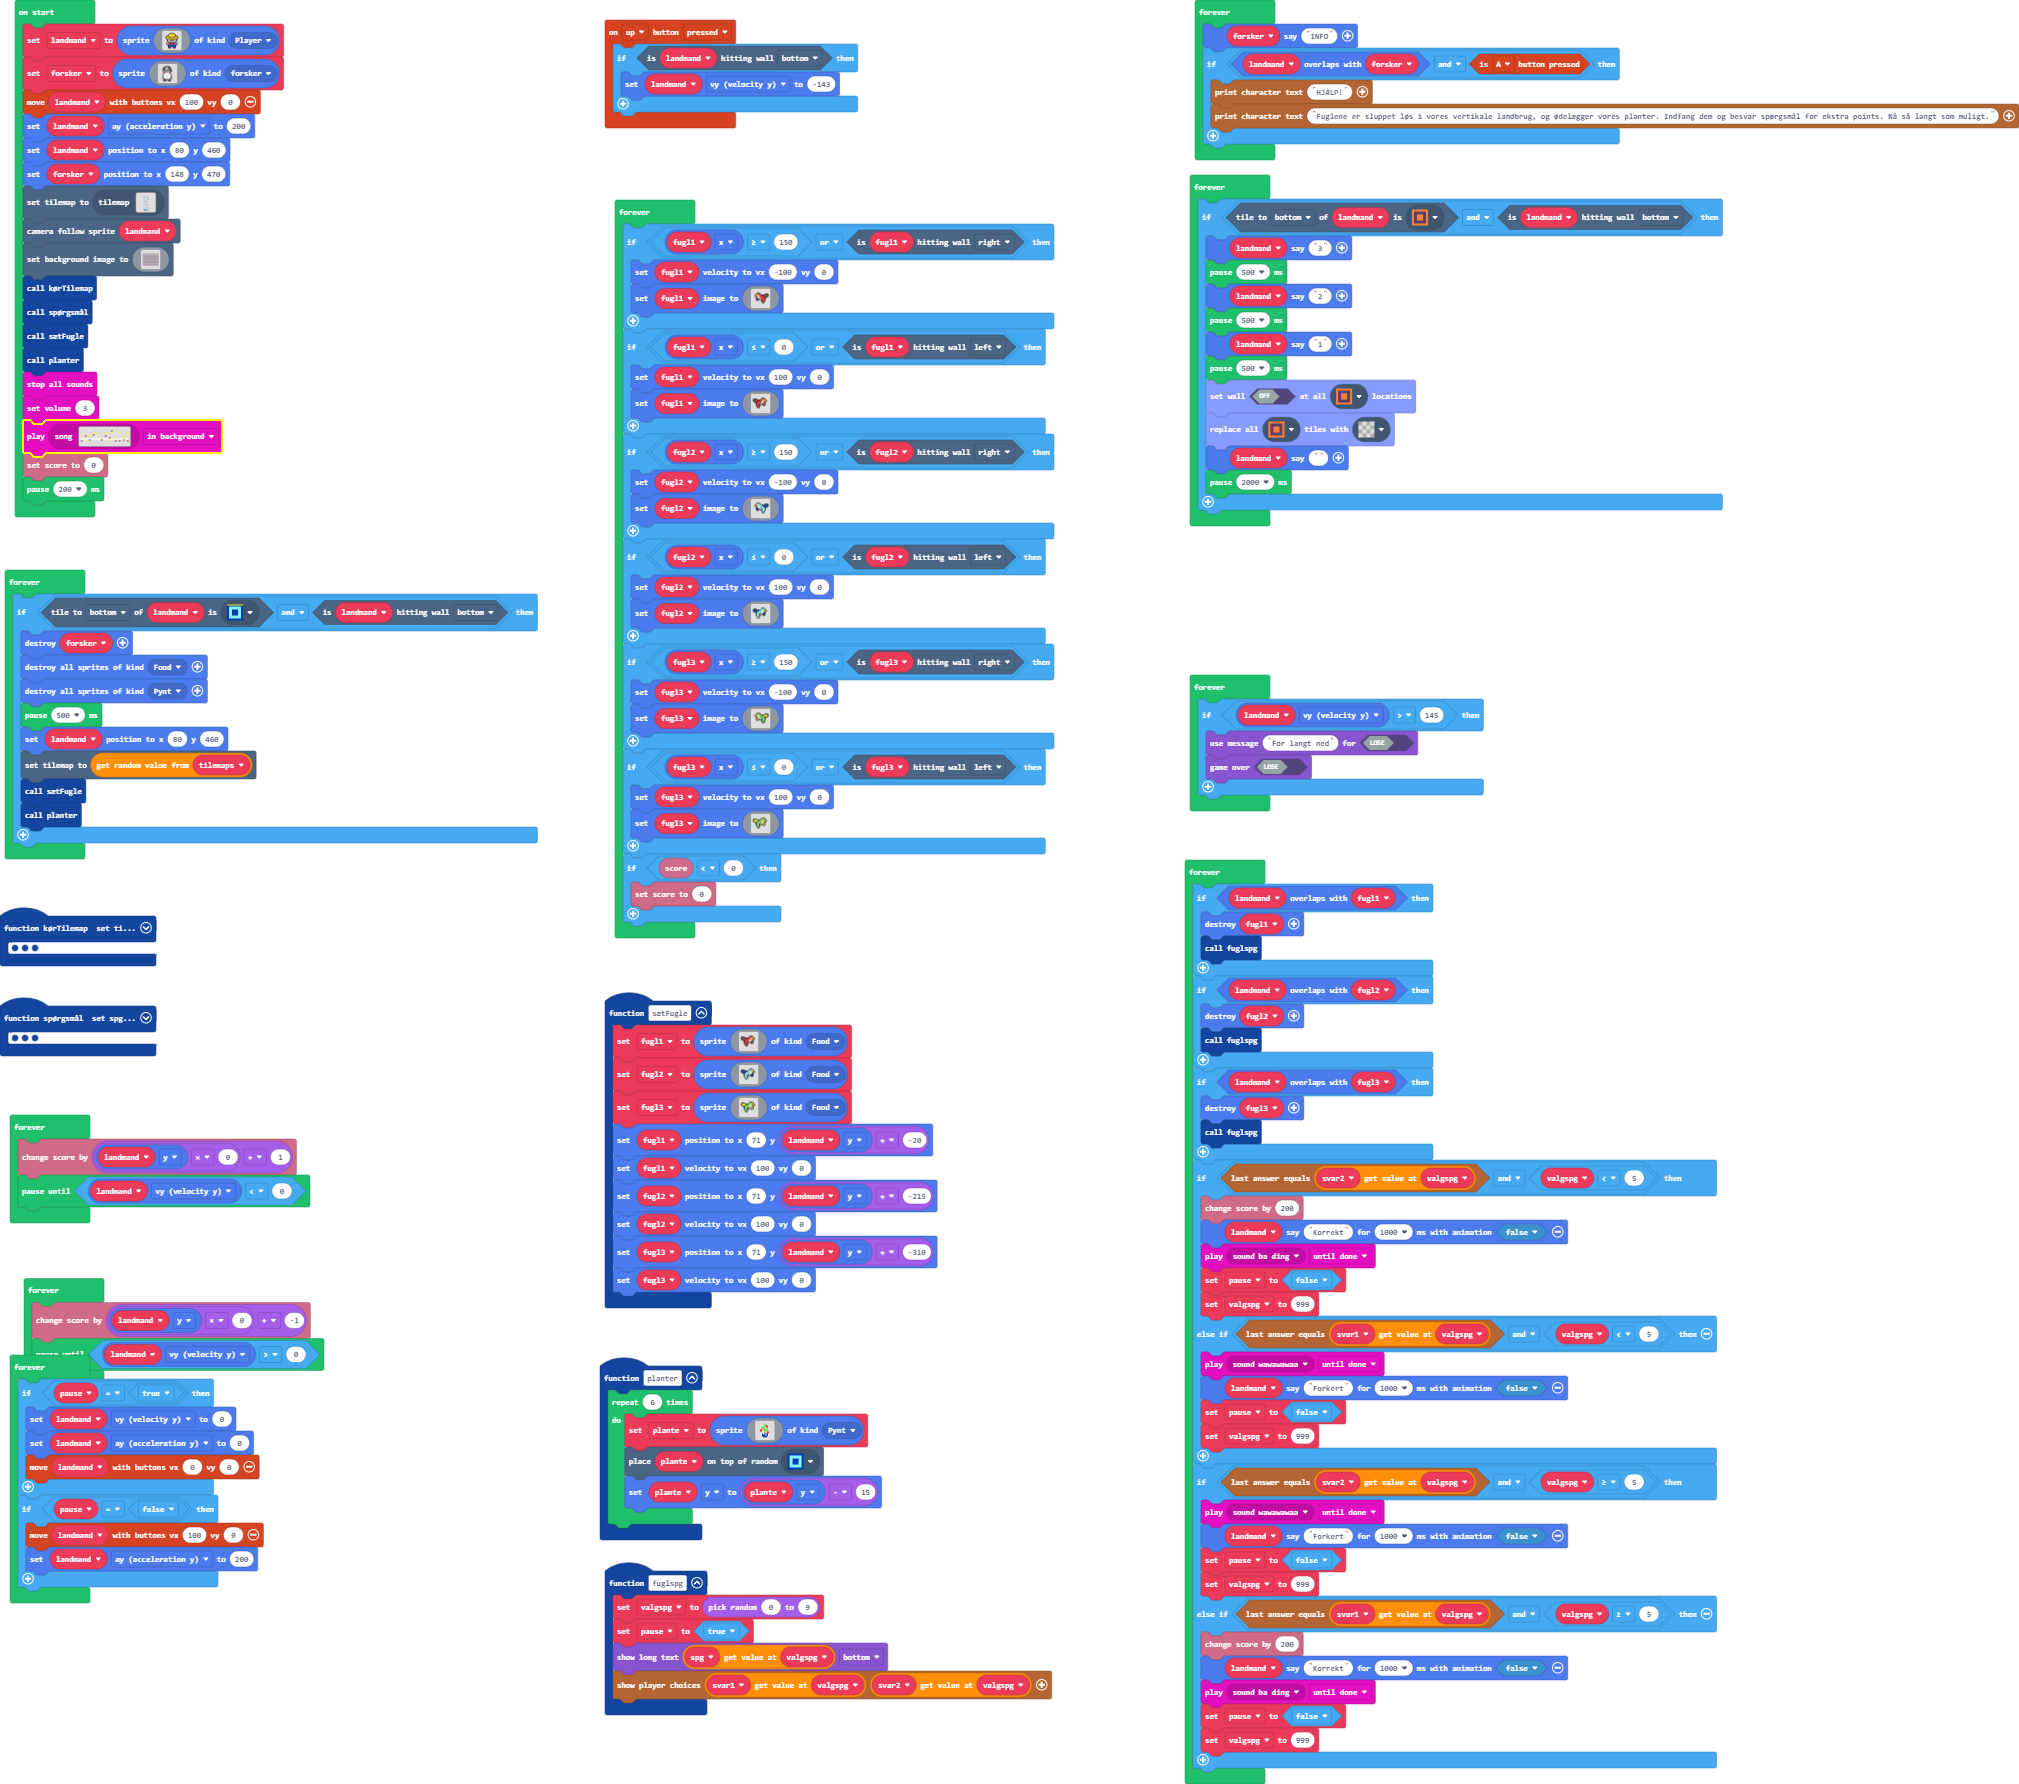
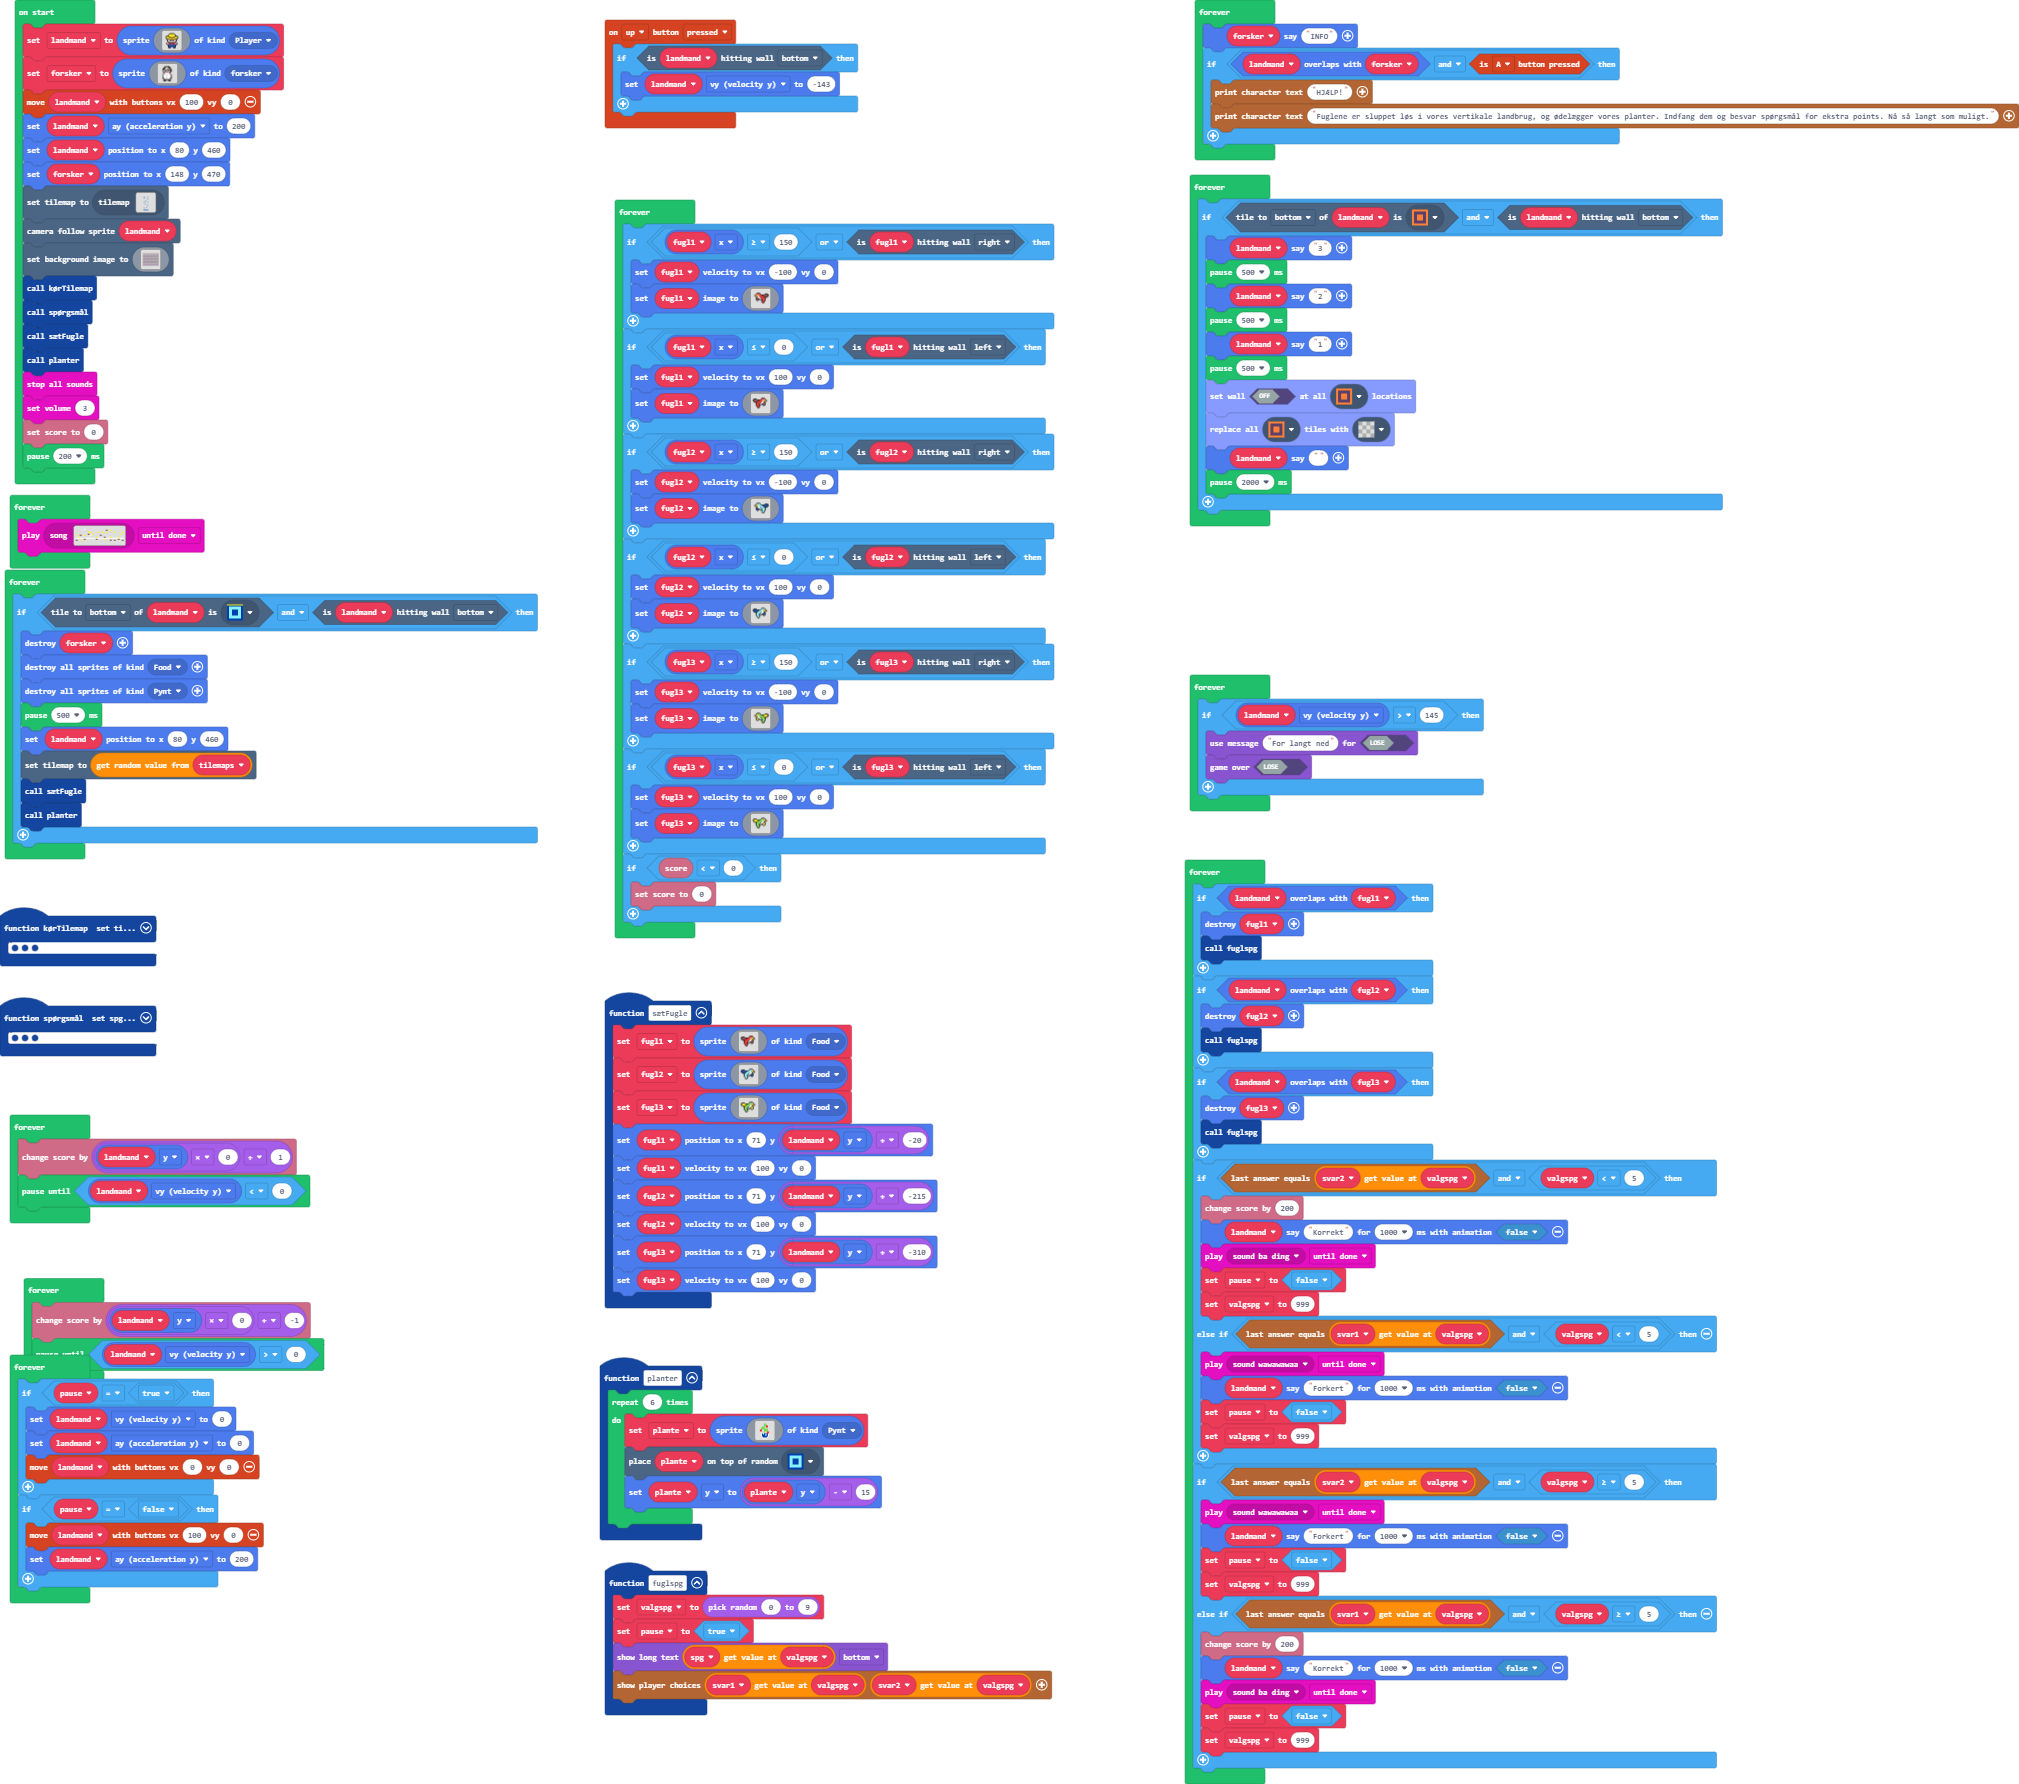
Update main.blocks, main.ts

Changed region(s): [[0.0, 0.2158, 0.1248, 0.3391]]

diff --git a/main.ts b/main.ts
@@ -332,7 +332,6 @@ sætFugle()
 planter()
 music.stopAllSounds()
 music.setVolume(3)
[1 lines of base64/hex data omitted]
 info.setScore(0)
 pause(200)
 forever(function () {
@@ -510,6 +509,9 @@ forever(function () {
         landmand.sayText("")
         pause(2000)
     }
+})
+forever(function () {
[1 lines of base64/hex data omitted]
 })
 forever(function () {
     if (landmand.tileKindAt(TileDirection.Bottom, assets.tile`myTile0`) && landmand.isHittingTile(CollisionDirection.Bottom)) {
